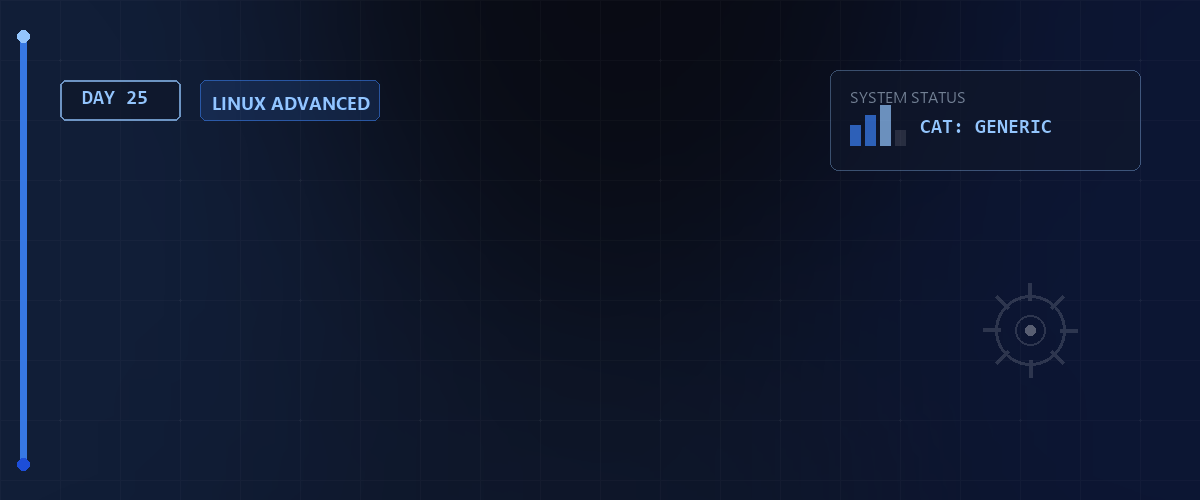
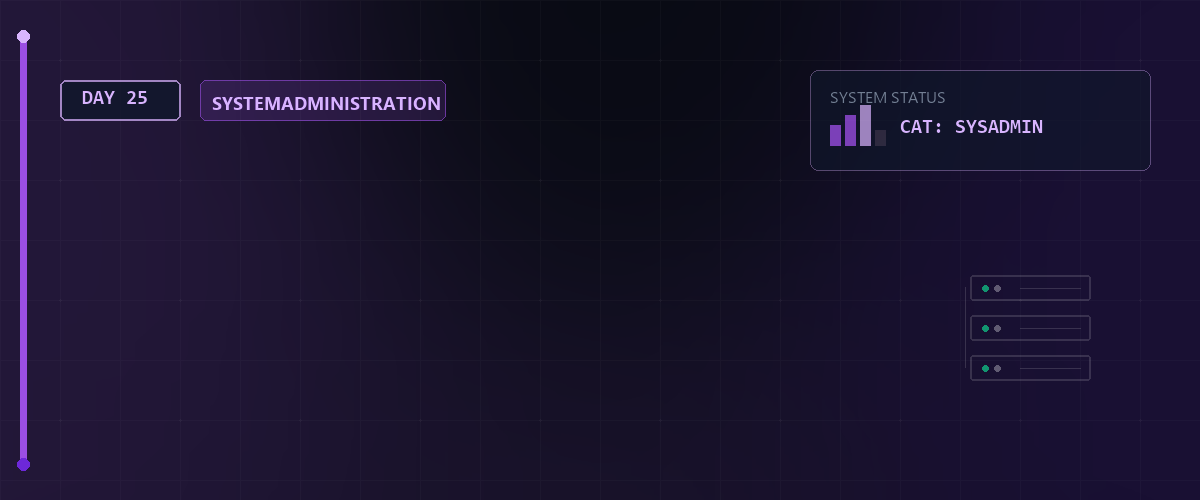
docs(Day_25): document boot process, GRUB2 customization and Docker basics

diff --git a/Day_25/README.md b/Day_25/README.md
@@ -1,3 +1,158 @@
-# 🐧 Linux Essentials - Day_25
+# 🔌 Boot-Prozess, GRUB2, NAT-Forwarding & Docker — Tag 25
 
-Status: ⏳ In Planung
+![Linux Essentials Day 25 Header](./header.png)
+
+> **Entwickler & Administrator:** Tobias Boyke  
+> **Status:** 🚀 100% Dokumentiert & LPIC-1 Fokussiert  
+> **Kompatibilität:** ![Rocky Linux](https://img.shields.io/badge/Rocky%20Linux-8%20%7C%209-blue) ![Debian](https://img.shields.io/badge/Debian-12%20%7C%2013-red) ![Arch Linux](https://img.shields.io/badge/Arch%20Linux-Latest-cyan)
+
+---
+
+## 📑 Inhaltsverzeichnis
+- [🥾 1. Boot-Prozess & GRUB2 Bootloader](#-1-boot-prozess--grub2-bootloader)
+  - [A. Der Boot-Ablauf im Detail](#a-der-boot-ablauf-im-detail)
+  - [B. GRUB2 Konfiguration & Anpassung](#b-grub2-konfiguration--anpassung)
+- [🌐 2. IP-Forwarding & NAT-Masquerading](#-2-ip-forwarding--nat-masquerading)
+- [🐳 3. Container-Virtualisierung mit Docker](#-3-container-virtualisierung-mit-docker)
+  - [A. Installation von Docker-CE (CentOS/Rocky Linux)](#a-installation-von-docker-ce-centosrocky-linux)
+  - [B. Container ausführen & absichern](#b-container-ausführen--absichern)
+- [📜 4. Shell-History & Kurs-Dateien](#-4-shell-history--kurs-dateien)
+- [🧠 LPIC-1 Relevanz & Wissenstest](#-lpic-1-relevanz--wissenstest)
+- [🔗 Zurück zur Übersicht](#-zurück-zur-übersicht)
+
+---
+
+## 🥾 1. Boot-Prozess & GRUB2 Bootloader
+
+Der Boot-Vorgang bringt ein Linux-System kontrolliert in den betriebsbereiten Zustand.
+
+### A. Der Boot-Ablauf im Detail
+1. **BIOS / UEFI:** Führt Hardwaretests (POST) durch und lädt den Bootloader (z.B. GRUB2) aus dem Master Boot Record (MBR) oder der EFI-Systempartition (ESP).
+2. **Bootloader (GRUB2):** Lädt den Linux-Kernel (`vmlinuz`) und die temporäre RAM-Disk (`initramfs`/`initrd`) in den Arbeitsspeicher.
+3. **Kernel-Initialisierung:** Der Kernel initialisiert Gerätetreiber und startet den ersten Userspace-Prozess (Init-Prozess, heute fast immer `systemd` mit PID 1).
+4. **Systemd-Targets:** `systemd` startet alle benötigten Dienste, um das konfigurierte Standard-Target (z.B. `multi-user.target` oder `graphical.target`) zu erreichen.
+
+> [!NOTE]  
+> Ausführliche Details und Hintergrundwissen zum Linux-Startvorgang findest du in der beigefügten PDF:  
+> [📖 Linux Booten und GRUB (PDF)](./assets/Linux_Booten_grub.pdf)
+
+### B. GRUB2 Konfiguration & Anpassung
+Die Datei `/boot/grub2/grub.cfg` (bzw. `/boot/grub/grub.cfg` bei Debian) wird **niemals direkt editiert**, da sie bei Kernel-Updates überschrieben wird. Modifikationen erfolgen in der Datei `/etc/default/grub`.
+
+#### Parameter anpassen (`/etc/default/grub`):
+```plaintext
+GRUB_TIMEOUT=5                  # Wartezeit im Menü in Sekunden
+GRUB_DEFAULT=0                  # Standardmäßig auszufählender Kernel-Eintrag
+GRUB_CMDLINE_LINUX="quiet splash" # Kernel-Boot-Parameter
+```
+
+#### Konfiguration generieren:
+* **Rocky Linux / RHEL / Fedora:**
+  ```bash
+  sudo grub2-mkconfig -o /boot/grub2/grub.cfg
+  ```
+* **Debian / Ubuntu / Linux Mint:**
+  ```bash
+  sudo update-grub
+  ```
+
+---
+
+## 🌐 2. IP-Forwarding & NAT-Masquerading
+
+Soll eine Linux-Maschine als Netzwerk-Router fungieren und Clients den Internetzugriff über ein einziges WAN-Interface erlauben, müssen IP-Forwarding und Network Address Translation (NAT) aktiviert werden.
+
+```bash
+# 1. IP-Forwarding im Linux-Kernel aktivieren (temporär)
+sudo sysctl -w net.ipv4.ip_forward=1
+
+# Dauerhafte Aktivierung in /etc/sysctl.conf:
+# net.ipv4.ip_forward = 1
+
+# 2. NAT-Masquerading über iptables konfigurieren (für das Interface ens160)
+sudo iptables -t nat -A POSTROUTING -o ens160 -j MASQUERADE
+```
+
+---
+
+## 🐳 3. Container-Virtualisierung mit Docker
+
+Docker ermöglicht das Ausführen von Anwendungen in isolierten Umgebungen (Containern), die sich den Kernel des Wirtssystems teilen.
+
+### A. Installation von Docker-CE (CentOS/Rocky Linux)
+Hier sind die exakten administrativen Schritte zur Installation von Docker über die offiziellen Paketquellen:
+
+```bash
+# 1. Systemaktualisierung
+sudo dnf update -y
+
+# 2. Störende Standardpakete entfernen
+sudo dnf remove -y podman buildah runc
+
+# 3. Hilfswerkzeug zur Repository-Verwaltung installieren
+sudo dnf install -y dnf-plugins-core
+
+# 4. Offizielle Docker-Paketquelle hinzufügen
+sudo dnf config-manager --add-repo https://download.docker.com/linux/centos/docker-ce.repo
+
+# 5. Docker Engine und Compose-Plugin installieren
+sudo dnf install -y docker-ce docker-ce-cli containerd.io docker-compose-plugin
+```
+
+### B. Container ausführen & absichern
+```bash
+# Docker-Hintergrunddienst starten & aktivieren
+sudo systemctl start docker
+sudo systemctl enable docker
+
+# Den aktuellen Benutzer zur Gruppe 'docker' hinzufügen (Rechte gelten nach Neuanmeldung)
+sudo usermod -aG docker $USER
+
+# Testcontainer ausführen
+docker run hello-world
+
+# Eine Web-App (Juice-Shop) im Docker-Container ausführen (Port-Forwarding auf 127.0.0.1:3000)
+docker run --rm -d -p 127.0.0.1:3000:3000 bkimminich/juice-shop
+```
+
+---
+
+## 📜 4. Shell-History & Kurs-Dateien
+
+Die komplette Shell-Historie dieses Kurstags inklusive Kommentaren und Befehlsabfolgen ist im folgenden Asset dokumentiert:
+* **Shell-History:** [rockyHisGrubDocker20260612-1345.txt](./assets/rockyHisGrubDocker20260612-1345.txt)
+
+---
+
+## 🧠 LPIC-1 Relevanz & Wissenstest
+
+<details>
+<summary><b>Fragen zu GRUB2, Boot-Prozess & Containern (Klicken zum Ausklappen)</b></summary>
+
+1. **Welche Datei enthält die globalen Einstellungen für GRUB2, die vom Administrator angepasst werden sollten?**
+   <details><summary>Antwort</summary><code>/etc/default/grub</code></details>
+
+2. **Mit welchem Befehl wird unter Red Hat / Rocky Linux die endgültige GRUB2-Konfigurationsdatei neu generiert?**
+   <details><summary>Antwort</summary><code>grub2-mkconfig -o /boot/grub2/grub.cfg</code></details>
+
+3. **Welcher Kernel-Parameter in `/proc/sys/net/ipv4/ip_forward` muss den Wert `1` enthalten, um IP-Paketweiterleitung zu erlauben?**
+   <details><summary>Antwort</summary><code>net.ipv4.ip_forward</code> (steuerbar via <code>sysctl</code>)</details>
+
+4. **Welcher iptables-Tabelle fügt man NAT-Regeln (wie MASQUERADE) hinzu?**
+   <details><summary>Antwort</summary>Der Tabelle <code>nat</code> (über den Parameter <code>-t nat</code>).</details>
+
+5. **Welcher Vorteil bietet Container-Virtualisierung (z.B. Docker) gegenüber klassischen Hypervisoren (z.B. VirtualBox)?**
+   <details><summary>Antwort</summary>Container teilen sich den Kernel des Wirtssystems (Host). Dadurch benötigt ein Container kein eigenes Betriebssystem-Boot-Image, ist extrem leichtgewichtig, startet in Sekundenbruchteilen und verbraucht deutlich weniger Arbeitsspeicher.</details>
+
+</details>
+
+---
+
+## 🔗 Zurück zur Übersicht
+
+* **Tag 24 (System-Logging & Audit):** [⬅ Tag 24](../Day_24/README.md)
+* **Tag 26 (Desktops & Lokalisierung):** [➡ Tag 26](../Day_26/README.md)
+* **Master-Repository:** [🌌 Zurück zum Master-Repository](../README.md)
+
+---
+*Erstellt & gepflegt von Tobias Boyke, Juni 2026.*
